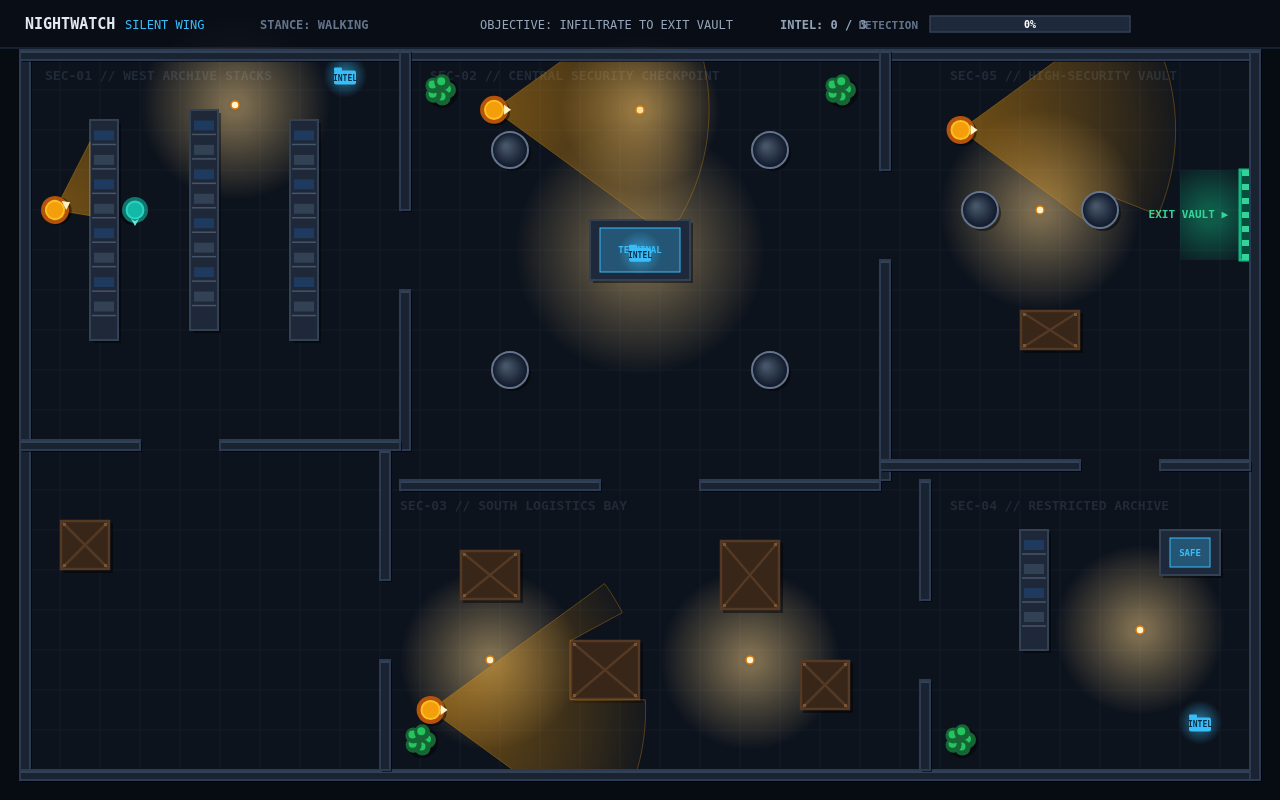
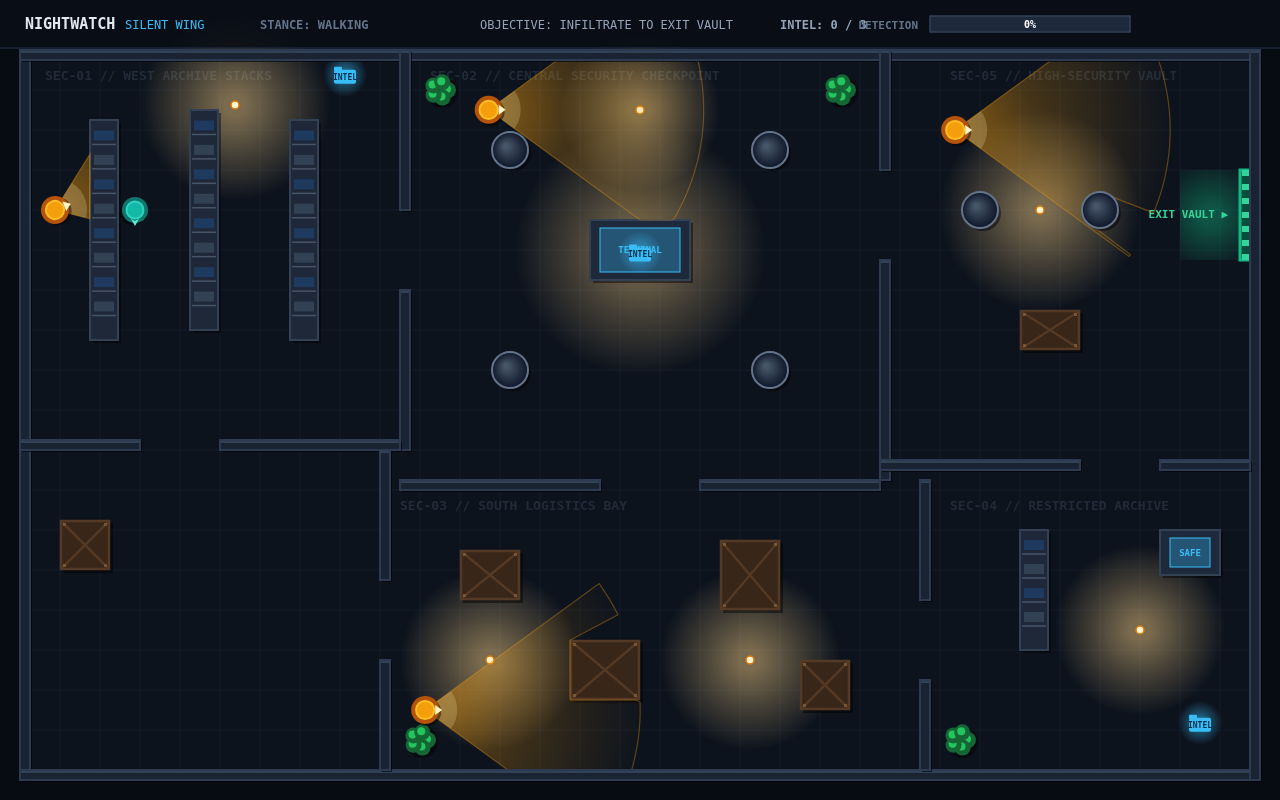
M6: revision pass - polish vision cone rendering, guard alert look-around sweep, and detection curve

diff --git a/game/src/render.js b/game/src/render.js
@@ -59,10 +59,15 @@ export class Renderer {
       this.drawPlayer(ctx, player);
     }
 
-    // 12. Render Tactical HUD
+    // 12. Alert Vignette (atmospheric pulse when detection is critical or alarm active)
+    if (screen === SCREEN.PLAYING && (isAlert || detectionMeter > 0.42)) {
+      this.drawAlertVignette(ctx, detectionMeter, isAlert);
+    }
+
+    // 13. Render Tactical HUD
     this.drawHUD(ctx, gameState);
 
-    // 13. Render Overlays (Menu, Paused, Caught, Won)
+    // 14. Render Overlays (Menu, Paused, Caught, Won)
     if (screen === SCREEN.MENU) {
       this.drawMenuScreen(ctx);
     } else if (screen === SCREEN.PAUSED) {
@@ -392,33 +397,47 @@ export class Renderer {
       }
       ctx.closePath();
 
-      // Cone gradient fill
+      // Cone gradient fill with smooth volumetric lighting
+      const coneRange = cone.guard.isAlert ? 245 : 215;
       const grad = ctx.createRadialGradient(
         cone.guard.x,
         cone.guard.y,
-        10,
+        8,
         cone.guard.x,
         cone.guard.y,
-        cone.guard.isAlert ? 245 : 215
+        coneRange
       );
 
-      if (cone.guard.isAlert || isAlert) {
-        grad.addColorStop(0, PALETTE.coneAlertInner);
-        grad.addColorStop(0.7, 'rgba(239, 68, 68, 0.25)');
-        grad.addColorStop(1, PALETTE.coneAlertOuter);
+      const alertActive = cone.guard.isAlert || isAlert;
+
+      if (alertActive) {
+        grad.addColorStop(0, 'rgba(239, 68, 68, 0.65)');
+        grad.addColorStop(0.35, 'rgba(239, 68, 68, 0.35)');
+        grad.addColorStop(0.75, 'rgba(239, 68, 68, 0.14)');
+        grad.addColorStop(1, 'rgba(239, 68, 68, 0.01)');
       } else {
-        grad.addColorStop(0, PALETTE.coneNormalInner);
-        grad.addColorStop(0.7, 'rgba(245, 158, 11, 0.18)');
-        grad.addColorStop(1, PALETTE.coneNormalOuter);
+        grad.addColorStop(0, 'rgba(245, 158, 11, 0.50)');
+        grad.addColorStop(0.35, 'rgba(245, 158, 11, 0.24)');
+        grad.addColorStop(0.75, 'rgba(245, 158, 11, 0.09)');
+        grad.addColorStop(1, 'rgba(245, 158, 11, 0.01)');
       }
 
       ctx.fillStyle = grad;
       ctx.fill();
 
-      // Cone outer stroke
-      ctx.strokeStyle = (cone.guard.isAlert || isAlert) ? 'rgba(239, 68, 68, 0.4)' : 'rgba(245, 158, 11, 0.3)';
-      ctx.lineWidth = 1;
+      // Crisp occluded boundary stroke
+      ctx.strokeStyle = alertActive ? 'rgba(239, 68, 68, 0.5)' : 'rgba(245, 158, 11, 0.35)';
+      ctx.lineWidth = 1.2;
       ctx.stroke();
+
+      // Flashlight emitter focal beam
+      const fov = alertActive ? 84 * (Math.PI / 180) : 72 * (Math.PI / 180);
+      ctx.beginPath();
+      ctx.moveTo(cone.guard.x, cone.guard.y);
+      ctx.arc(cone.guard.x, cone.guard.y, 32, cone.guard.angle - fov / 2, cone.guard.angle + fov / 2);
+      ctx.closePath();
+      ctx.fillStyle = alertActive ? 'rgba(254, 202, 202, 0.25)' : 'rgba(254, 243, 199, 0.20)';
+      ctx.fill();
 
       ctx.restore();
     }
@@ -602,6 +621,21 @@ export class Renderer {
       ctx.textAlign = 'left';
       ctx.fillText('⚠ ALARM ACTIVE', 1150, 29);
     }
+  }
+
+  drawAlertVignette(ctx, meter, isAlert) {
+    const cx = CANVAS_WIDTH / 2;
+    const cy = CANVAS_HEIGHT / 2;
+    const pulse = 0.65 + Math.sin(this.time * 7) * 0.35;
+    const intensity = isAlert ? 0.30 * pulse : Math.min(0.22, (meter - 0.42) * 0.45) * pulse;
+
+    const grad = ctx.createRadialGradient(cx, cy, 340, cx, cy, 700);
+    grad.addColorStop(0, 'rgba(239, 68, 68, 0)');
+    grad.addColorStop(0.65, `rgba(239, 68, 68, ${intensity * 0.45})`);
+    grad.addColorStop(1, `rgba(239, 68, 68, ${intensity})`);
+
+    ctx.fillStyle = grad;
+    ctx.fillRect(0, 0, CANVAS_WIDTH, CANVAS_HEIGHT);
   }
 
   drawMenuScreen(ctx) {

diff --git a/game/src/config.js b/game/src/config.js
@@ -79,6 +79,7 @@ export const PLAYER = {
   speedSneak: 85,
   footstepIntervalWalk: 0.38,
   footstepIntervalSneak: 0.65,
+  footprintLifetime: 0.85,
 };
 
 // Guard settings
@@ -93,18 +94,19 @@ export const GUARD = {
   coneRays: 120, // number of cast rays for smooth occlusion
   pauseLookSweepAngle: 35 * (Math.PI / 180),
   pauseLookSweepSpeed: 2.2,
+  alertLookSweepSpeed: 4.5,
 };
 
 // Detection model settings
 export const DETECTION = {
   max: 1.0,
-  baseFillRate: 0.52, // fills in ~1.9s at base distance
-  closeDistanceFactor: 1.6, // multiplier when player is very close to guard
-  sneakMultiplier: 0.34, // sneaking significantly reduces detection build-up
-  lampLightMultiplier: 1.75, // standing in lamp pool accelerates detection
+  baseFillRate: 0.50, // balanced base rate
+  closeDistanceFactor: 1.8, // quadratic proximity scaling for tight tension
+  sneakMultiplier: 0.32, // sneaking significantly reduces detection build-up
+  lampLightMultiplier: 1.80, // standing in lamp pool accelerates detection
   movingMultiplier: 1.25, // moving fast increases profile
-  stillMultiplier: 0.85, // standing still decreases profile
-  decayRate: 0.38, // recovery rate per second when hidden
+  stillMultiplier: 0.80, // standing still decreases profile
+  decayRate: 0.42, // fair recovery rate per second when hidden
   alertTriggerThreshold: 0.48, // near-miss alarm triggers at 48% meter
   alertCooldownTime: 4.2, // seconds guards remain in heightened alert
 };

diff --git a/game/src/guards.js b/game/src/guards.js
@@ -72,13 +72,18 @@ export class GuardManager {
         guard.pauseTimer -= dt;
         guard.lookSweepTime += dt;
 
-        // Sweep cone back and forth while paused to simulate scanning
-        const sweepSpeed = guard.isAlert ? GUARD.pauseLookSweepSpeed * 1.5 : GUARD.pauseLookSweepSpeed;
-        const sweepAngle = guard.isAlert ? GUARD.pauseLookSweepAngle * 1.3 : GUARD.pauseLookSweepAngle;
-        const sweepOffset = Math.sin(guard.lookSweepTime * sweepSpeed) * sweepAngle;
+        // Enhanced look-around sweep: rapid tactical scanning when alert
+        const sweepSpeed = guard.isAlert ? GUARD.alertLookSweepSpeed : GUARD.pauseLookSweepSpeed;
+        const sweepAngle = guard.isAlert ? GUARD.pauseLookSweepAngle * 1.4 : GUARD.pauseLookSweepAngle;
+
+        // When alert, use multi-harmonic sweep for snappy head-turns
+        const sweepOffset = guard.isAlert
+          ? Math.sin(guard.lookSweepTime * sweepSpeed) * sweepAngle * 0.7 +
+            Math.sin(guard.lookSweepTime * sweepSpeed * 2) * (sweepAngle * 0.3)
+          : Math.sin(guard.lookSweepTime * sweepSpeed) * sweepAngle;
 
         guard.targetAngle = (guard.baseAngle ?? 0) + sweepOffset;
-        this.rotateTowardTarget(guard, dt, 5.0);
+        this.rotateTowardTarget(guard, dt, guard.isAlert ? 8.5 : 5.0);
 
         if (guard.pauseTimer <= 0) {
           // Pause complete, proceed to next waypoint

diff --git a/game/src/vision.js b/game/src/vision.js
@@ -126,9 +126,9 @@ export class VisionSystem {
       }
 
       // Player is visible! Calculate detection rate
-      // 1. Proximity factor: significantly higher when close
-      const proxNorm = 1.0 - dist / range;
-      const proxFactor = 1.0 + proxNorm * DETECTION.closeDistanceFactor;
+      // 1. Proximity factor: quadratic curve so perimeter is survivable, close quarters perilous
+      const proxNorm = Math.max(0, 1.0 - dist / range);
+      const proxFactor = 1.0 + (proxNorm * proxNorm) * DETECTION.closeDistanceFactor;
 
       // 2. Sneak factor: sneaking drastically reduces signature
       const sneakFactor = player.isSneaking ? DETECTION.sneakMultiplier : 1.0;
